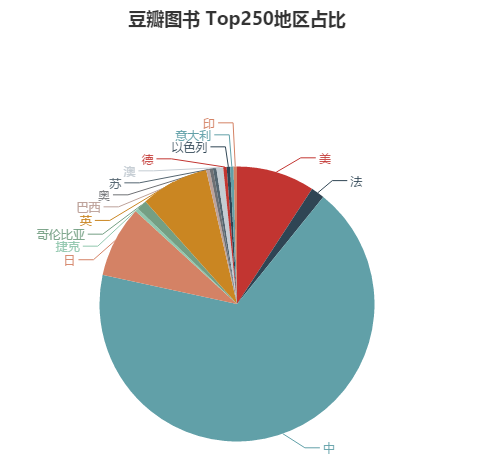
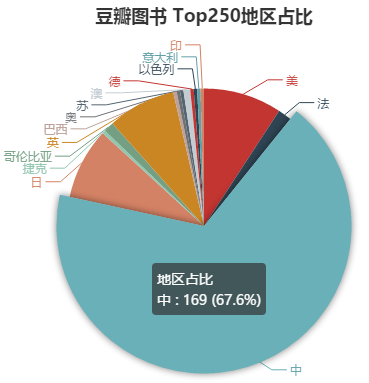
更改展示图片

diff --git a/doubanEchart/js/book.js b/doubanEchart/js/book.js
@@ -18,7 +18,7 @@ const optionForPie = function(data) {
                 name: '地区占比',
                 type: 'pie',
                 radius: '55%',
-                center: ['50%', '60%'],
+                center: ['50%', '45%'],
                 data: data,
                 itemStyle: {
                     emphasis: {
